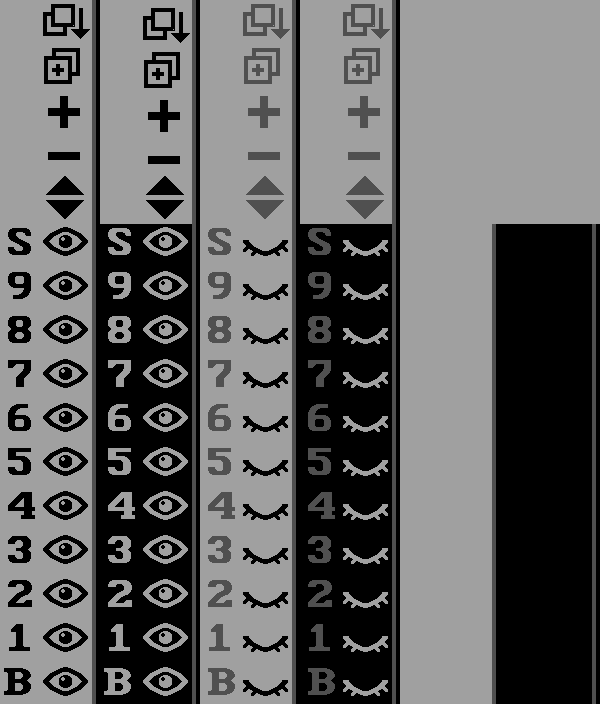
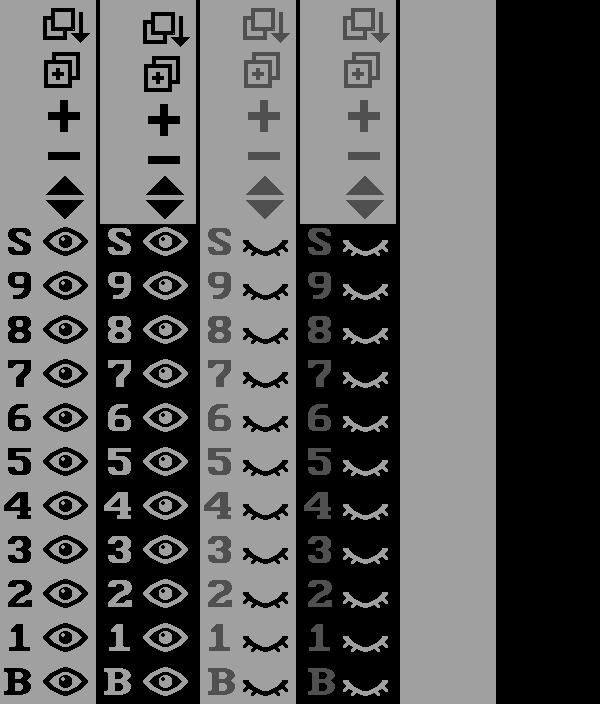
Issue #107 - tune up layer panel graphical glitches

diff --git a/libs/layertools.py b/libs/layertools.py
@@ -59,13 +59,25 @@ def refresh_layer_gadgets(minitoolbar=None):
         is_current = layer_name is not None and layer_name == current_name
 
         if layer is None:
-            layer_select = 5 if is_current else 4
+            layer_select = 3 if is_current else 2
             layer_visible = 5 if is_current else 4
+        elif i == 10: #stencil
+            # The stencil's own enable flag is authoritative.
+            layer.visible = config.stencil.enable
+
+            if config.stencil.mask is None:
+                layer_select = 2
+            else:
+                layer_select = 0
+            if config.stencil.enable:
+                layer_visible = 0
+            else:
+                if config.stencil.mask is None:
+                    layer_visible = 4
+                else:
+                    layer_visible = 2
         else:
             layer_select = 1 if is_current else 0
-            if i == 10:
-                # The stencil's own enable flag is authoritative.
-                layer.visible = config.stencil.enable
             if layer.visible:
                 layer_visible = 1 if is_current else 0
             else:
@@ -335,14 +347,18 @@ def init_layertoolbar(config_in):
     minitoolbar.tool_id("dellayer").has_subtool = False
     minitoolbar.tool_id("movelayer").has_subtool = False
     for i in range(0,11):
-        minitoolbar.tool_id(f"layer{i}").has_subtool = False
-        minitoolbar.tool_id(f"layer{i}").state = 2
-        minitoolbar.tool_id(f"visible{i}").has_subtool = False
-        minitoolbar.tool_id(f"visible{i}").state = 4
+        #readjust size of tools to not overlap
+        lrect = list(minitoolbar.tool_id(f"layer{i}").rect)
+        lrect[3] -= scaleY
+        minitoolbar.tool_id(f"layer{i}").rect = list(lrect)
+        lrect = list(minitoolbar.tool_id(f"visible{i}").rect)
+        lrect[3] -= scaleY
+        minitoolbar.tool_id(f"visible{i}").rect = list(lrect)
 
     #Add frame slider to toolbar
     gx,gy,gw,gh = minitoolbar.tools[0].rect
     gx = scaleX
+    gy = scaleY
     gw = scaleX*8
     gh = scaleY * (5) * 11
     sliderg = Gadget(Gadget.TYPE_PROP_VERT, "-", (gx,gy,gw,gh), maxvalue=16, id="opacityslider")
@@ -360,7 +376,6 @@ def draw_layertoolbar(screen_rgb, rect):
     if config.layertoolbar.visible:
         refresh_layer_gadgets()
         pygame.draw.rect(screen_rgb, (160,160,160), rect)
-        pygame.draw.rect(screen_rgb, (80,80,80), (rect[2]-scaleX*2,rect[1],scaleX,rect[3]))
         pygame.draw.rect(screen_rgb, (0,0,0), (rect[2]-scaleX,rect[1],scaleX,rect[3]))
         config.layertoolbar.tool_id("opacityslider").need_redraw = True
         for i in range(0,11):
